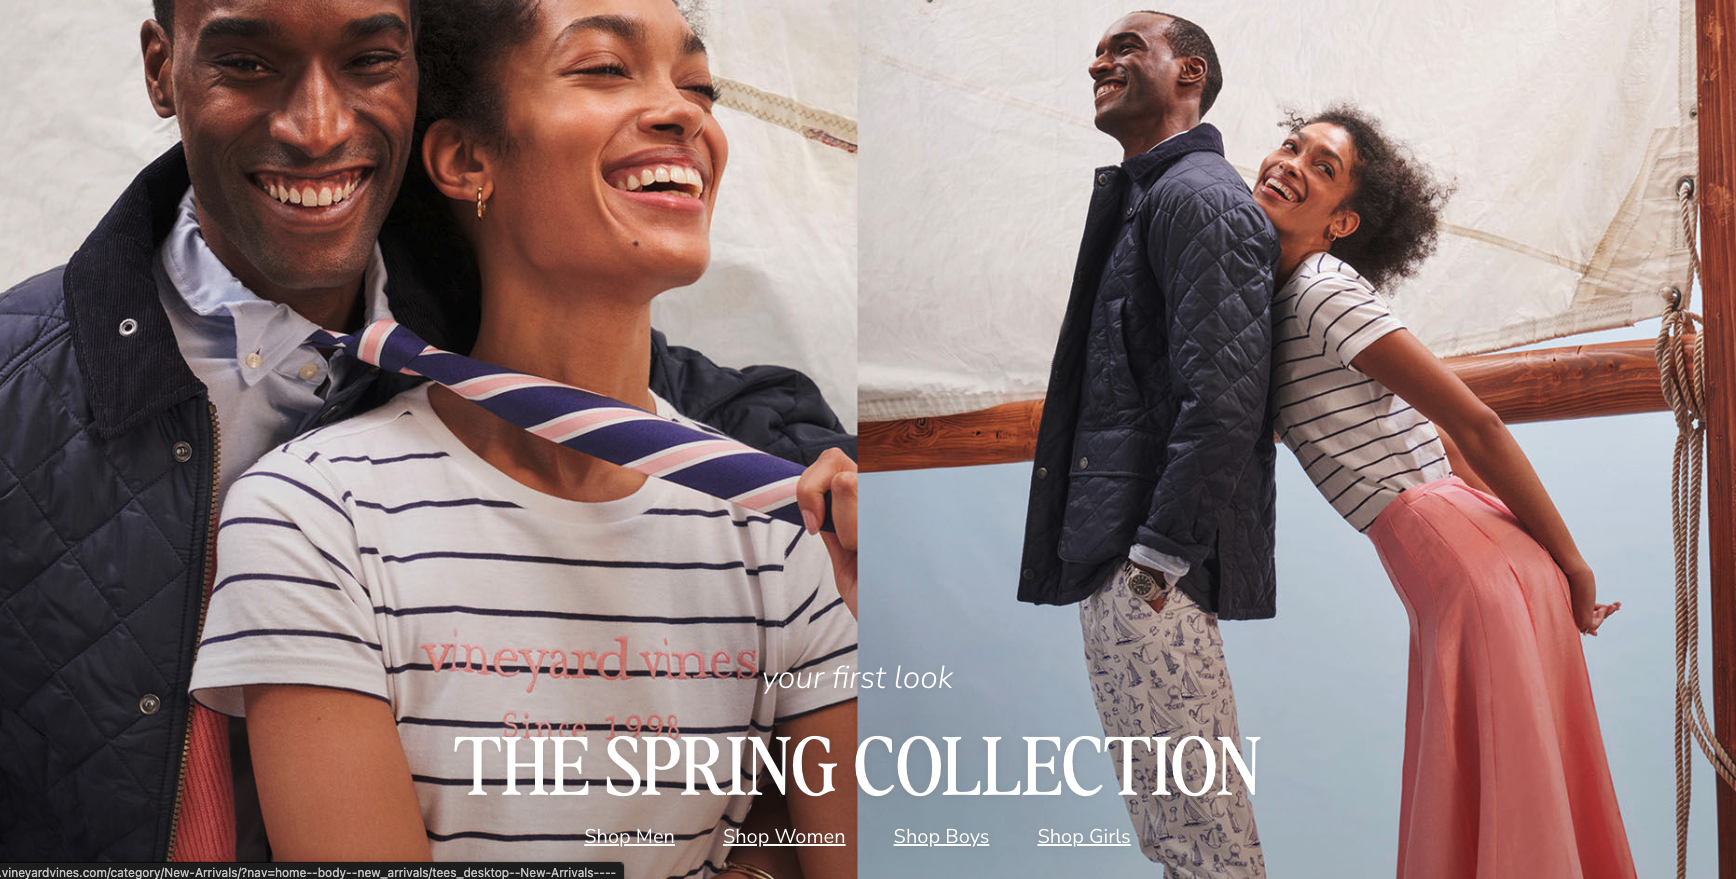
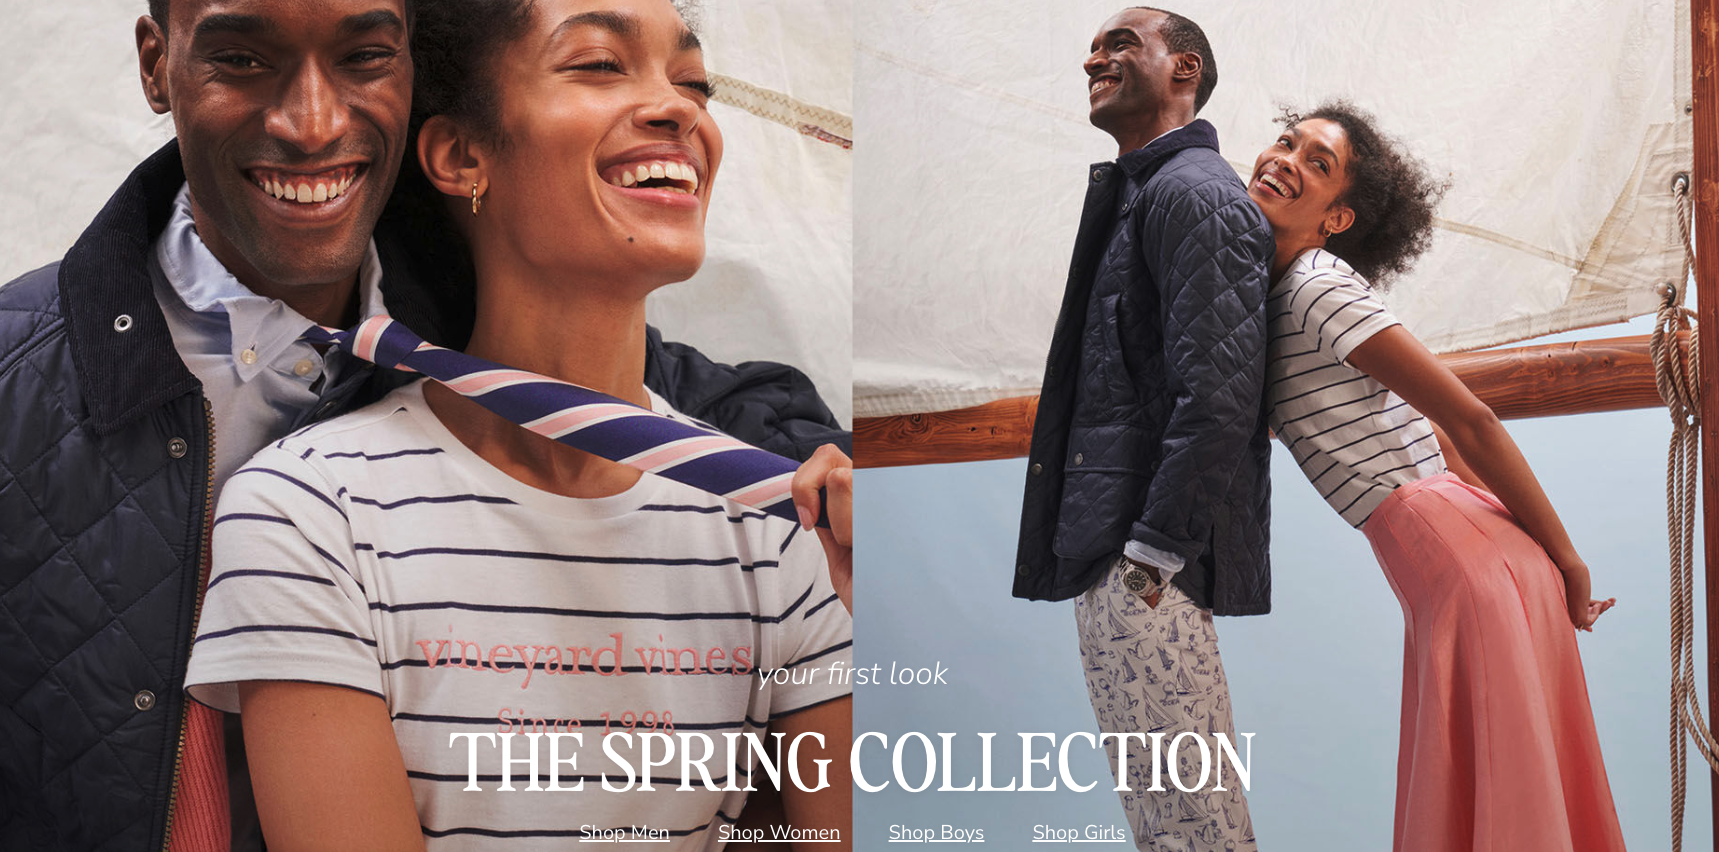
added cart functionality and reset ajs

diff --git a/index.html b/index.html
@@ -33,55 +33,10 @@
             <h3 class="menuItem">Sale</h3>
         </div>
     </nav>
-    <!--
-    <div class="slider">
-        <div class="sliderWrapper">
-            <div class="sliderItem">
-                <img src="./img/mens-collection-vv.jpeg" alt="" class="sliderImg">
-                <div class="sliderBg"></div>
-                <h1 class="sliderTitle">SPRING</br>COLLECTION</h1>
-                <a href="#product">
-                    <button class="buyButton">BUY NOW!</button>
-                </a>
-            </div>
-            <div class="sliderItem">
-                <img src="./img/mens-vv.png" alt="" class="sliderImg">
-                <div class="sliderBg"></div>
-                <h1 class="sliderTitle">MENS</h1>
-                <a href="#product">
-                    <button class="buyButton">BUY NOW!</button>
-                </a>
-            </div>
-            <div class="sliderItem">
-                <img src="./img/womens-vv.png" alt="" class="sliderImg">
-                <div class="sliderBg"></div>
-                <h1 class="sliderTitle">WOMENS</h1>
-                <a href="#product">
-                    <button class="buyButton">BUY NOW!</button>
-                </a>
-            </div>
-            <div class="sliderItem">
-                <img src="./img/kids-vv.png" alt="" class="sliderImg">
-                <div class="sliderBg"></div>
-                <h1 class="sliderTitle">KIDS</h1>
-                <a href="#product">
-                    <button class="buyButton">BUY NOW!</button>
-                </a>
-            </div>
-            <div class="sliderItem">
-                <img src="./img/hippie.png" alt="" class="sliderImg">
-                <div class="sliderBg"></div>
-                <h1 class="sliderTitle">SALE</h1>
-                <a href="#product">
-                    <button class="buyButton">BUY NOW!</button>
-                </a>
-            </div>
-        </div>
-    </div> -->
 
     <div class="carousel">
         <div class="carousel_item">
-            <img class="carousel-img" src="./img/hero-img-vv-2.png" height=auto width="100% alt="">
+            <img class="carousel-img" src="./img/hero-v3.png" height=auto width="100% alt="">
         </div>
     </div>
 
@@ -109,9 +64,10 @@
         </div>
 
         <div class="product" id="product">
-            <img src="./img/air.png" alt="" class="productImg">
+            <img src="https://www.vineyardvines.com/dw/image/v2/AAHW_PRD/on/demandware.static/-/Sites-vineyardvines-master/default/dw4215b0a3/images/2024/2E002002_951_CF_OF_0006_A.jpg?sw=864&strip=false"
+                alt="" class="productImg">
             <div class="productDetails">
-                <h1 class="productTitle">AIR FORCE</h1>
+                <h1 class="productTitle">Cotton Cashmere Heritage V-Neck Sweater</h1>
                 <h2 class="productPrice">$199</h2>
                 <p class="productDesc">Lorem ipsum dolor sit amet consectetur impal adipisicing elit. Alias assumenda
                     dolorum
@@ -121,15 +77,21 @@
                     <div class="color"></div>
                 </div>
                 <div class="sizes">
-                    <div class="size">42</div>
-                    <div class="size">43</div>
-                    <div class="size">44</div>
+                    <div class="size">XS</div>
+                    <div class="size">S</div>
+                    <div class="size">M</div>
+                    <div class="size">L</div>
+                    <div class="size">XL</div>
                 </div>
-                <button class="productButton">BUY NOW!</button>
+                <button class="productButton">Add To Cart</button>
             </div>
             <div class="payment">
+                <h1>CART</h1>
+                <img class="cartProductImg" src="./img/mens-vv-2.png" height="50px" width="50px" alt="">
+                <h2 class="cartProductTitle">Cotton Cable Crewneck Sweater</h2>
+                <h3 class="cartProductPrice">$99</h3>
                 <h1 class="payTitle">Personal Information</h1>
-                <label>Name and Surname</label>
+                <label>Name</label>
                 <input id="fullName" type="text" placeholder="" class="payInput">
                 <label>Email</label>
                 <input id="email" type="text" placeholder="" class="payInput">
@@ -141,11 +103,6 @@
                     <img src="./img/master.png" alt="" width="40" class="cardIcon">
                 </div>
                 <input type="password" class="payInput" placeholder="Card Number">
-                <div class="cardInfo">
-                    <input type="text" placeholder="mm" class="payInput sm">
-                    <input type="text" placeholder="yyyy" class="payInput sm">
-                    <input type="text" placeholder="cvv" class="payInput sm">
-                </div>
                 <button class="payButton">Checkout!</button>
                 <span class="close">X</span>
             </div>
@@ -169,7 +126,7 @@
                         <li class="fListItem">Refund</li>
                         <li class="fListItem">FAQ</li>
                         <li class="fListItem">Feedback</li>
-                        <li class="fListItem">Stories</li>
+                        <li class="fListItem"><button class="resetAJS">Reset AJS</button></li>
                     </ul>
                 </div>
                 <div class="footerMenu">
@@ -199,9 +156,6 @@
                         <img src="./img/instagram.png" alt="" class="fIcon">
                         <img src="./img/whatsapp.png" alt="" class="fIcon">
                     </div>
-                </div>
-                <div class="footerRightMenu">
-                    <span class="copyright">@Lama Dev. All rights reserved. 2022.</span>
                 </div>
             </div>
         </footer>

diff --git a/app.js b/app.js
@@ -38,66 +38,64 @@ const products = [
     category: "New",
     price: 119,
     img: "./img/hero-v3.png",
+    singleProductImg: "https://www.vineyardvines.com/dw/image/v2/AAHW_PRD/on/demandware.static/-/Sites-vineyardvines-master/default/dw4215b0a3/images/2024/2E002002_951_CF_OF_0006_A.jpg?sw=864&strip=false",
   },
   {
     id: 2,
     category: "Mens",
     price: 149,
     img: "./img/mens-vv-2.png",
+    singleProductImg: "https://www.vineyardvines.com/dw/image/v2/AAHW_PRD/on/demandware.static/-/Sites-vineyardvines-master/default/dw05df2193/images/2024/1K004683_8872_CF_OF_0067_A.jpg?sw=864&strip=false",
+    productTitle: "Calmwater Shirt Jacket",
   },
   {
     id: 3,
     category: "Womens",
     price: 109,
-    img: "./img/womens-vv.png"
+    img: "./img/womens-vv.png",
+    singleProductImg: "https://www.vineyardvines.com/dw/image/v2/AAHW_PRD/on/demandware.static/-/Sites-vineyardvines-master/default/dwd77423ae/images/2024/2E002068_111_CF_OF_0004_A.jpg?sw=864&strip=false",
+    productTitle: "Cotton Cable Crewneck Sweater",
   },
   {
     id: 4,
     category: "Kids",
     price: 129,
-    img: "./img/kids-vv.png"
+    img: "./img/kids-vv.png",
+    singleProductImg: "https://www.vineyardvines.com/dw/image/v2/AAHW_PRD/on/demandware.static/-/Sites-vineyardvines-master/default/dwd0f82882/images/2023/3G010324_D180_LD_1444_F.jpg?sw=864&strip=false",
+    productTitle: "Boys' Printed Sankaty Polo",
   },
   {
     id: 5,
     category: "Sale",
     price: 99,
-    img: "./img/sale-vv.png"
+    img: "./img/sale-vv.png",
+    singleProductImg: "https://www.vineyardvines.com/dw/image/v2/AAHW_PRD/on/demandware.static/-/Sites-vineyardvines-master/default/dwd20846d9/images/2023/1K004367_8891_LD_53808_F.jpg?sw=548&sh=822&sm=cut&strip=false",
+    productTitle: "Harbor Fleece Quarter-Snap",
   },
 ];
 
 let choosenProduct = products[0];
 
-//const currentProductImg = document.querySelector(".productImg");
+const currentProductImg = document.querySelector(".productImg");
 const carouselImg = document.querySelector(".carousel-img");
 const currentProductTitle = document.querySelector(".productTitle");
 const currentProductPrice = document.querySelector(".productPrice");
 const currentProductColors = document.querySelectorAll(".color");
 const currentProductSizes = document.querySelectorAll(".size");
+const cartProductImg = document.querySelector(".cartProductImg");
+const cartProductTitle = document.querySelector(".cartProductTitle");
+const cartProductPrice = document.querySelector(".cartProductPrice");
 
 
 menuItems.forEach((item, index) => {
   item.addEventListener("click", () => {
-    //change the current slide
-    //wrapper.style.transform = `translateX(${-100 * index}vw)`;
-
-
-
-
-
     //change the choosen product
     choosenProduct = products[index];
 
-
-
     //change texts of currentProduct
-    currentProductTitle.textContent = choosenProduct.title;
+    currentProductTitle.textContent = choosenProduct.productTitle;
     currentProductPrice.textContent = "$" + choosenProduct.price;
-    //currentProductImg.src = choosenProduct.colors[0].img;
-
-    analytics.track('Product Viewed', {
-      product: choosenProduct.title,
-      price: choosenProduct.price,
-    });
+    currentProductImg.src = choosenProduct.singleProductImg;
   });
 });
 
@@ -136,9 +134,23 @@ const productButton = document.querySelector(".productButton");
 const payment = document.querySelector(".payment");
 const close = document.querySelector(".close");
 const payButton = document.querySelector(".payButton");
+const resetAJS = document.querySelector(".resetAJS");
+
+resetAJS.addEventListener("click", () => {
+  analytics.reset()
+});
 
 productButton.addEventListener("click", () => {
   payment.style.display = "flex";
+  cartProductImg.src = choosenProduct.singleProductImg;
+  cartProductPrice.textContent = "$" + choosenProduct.price;
+  cartProductTitle.textContent = choosenProduct.productTitle;
+
+  analytics.track('Checkout Started', {
+    product: choosenProduct.productTitle,
+    price: choosenProduct.price,
+    category: choosenProduct.category,
+  });
 });
 
 payButton.addEventListener("click", () => {
@@ -150,8 +162,9 @@ payButton.addEventListener("click", () => {
     email: document.getElementById("email").value
   });
   analytics.track('Purchase Completed', {
-    product: choosenProduct.title,
+    product: choosenProduct.productTitle,
     price: choosenProduct.price,
+    category: choosenProduct.category,
   });
   payment.style.display = "none";
 });

diff --git a/style.css b/style.css
@@ -209,8 +209,8 @@ nav {
 }
 
 .payment {
-  width: 500px;
-  height: 500px;
+  width: 600px;
+  height: 700px;
   background-color: white;
   position: absolute;
   top: 0;
@@ -271,7 +271,7 @@ label {
   left: 0;
   -webkit-box-shadow: 0px 0px 13px 2px rgba(0, 0, 0, 0.3);
   box-shadow: 0px 0px 13px 2px rgba(0, 0, 0, 0.3);
-  background-color: #369e62;
+  background-color: #001B44;
   color: white;
   border: none;
   cursor: pointer;
@@ -344,7 +344,7 @@ label {
 .productButton {
   float: right;
   padding: 10px 20px;
-  background-color: black;
+  background-color: #001B44;
   color: white;
   font-weight: 600;
   cursor: pointer;
